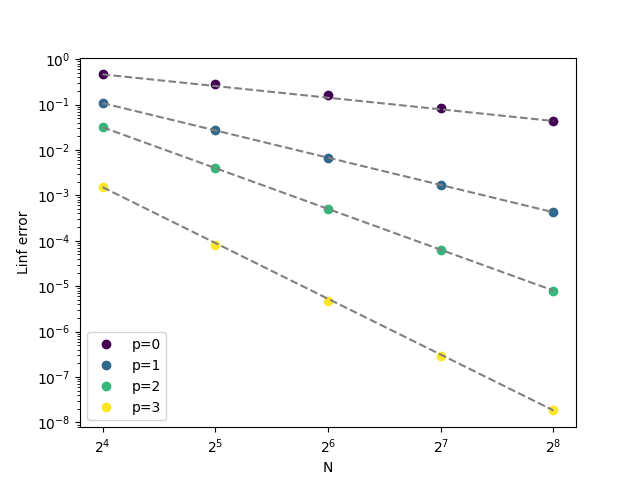
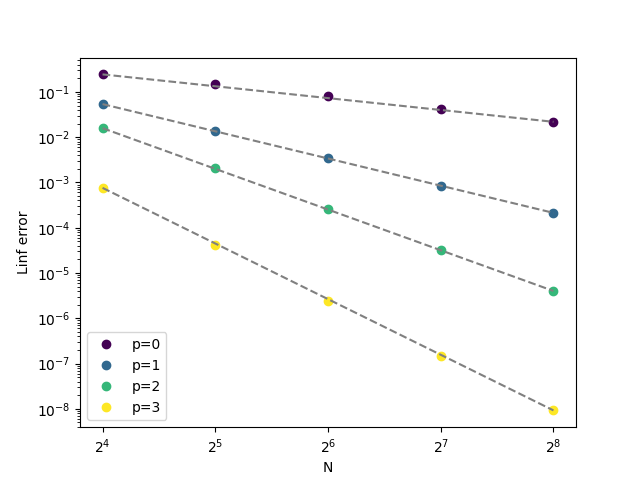
fix: SED divide by 0 in SED, add: SED to a priori limiting

diff --git a/superfv/slope_limiting/zhang_and_shu.py b/superfv/slope_limiting/zhang_and_shu.py
@@ -7,6 +7,8 @@ import numpy as np
 from superfv.slope_limiting import compute_dmp
 from superfv.tools.array_management import ArrayLike, crop_to_center, intersection_shape
 
+from .smooth_extrema_detection import compute_smooth_extrema_detector
+
 if TYPE_CHECKING:
     from superfv.finite_volume_solver import FiniteVolumeSolver
 
@@ -113,6 +115,7 @@ def zhang_shu_limiter(
     interpolation_scheme: Literal["transverse", "gauss-legendre"],
     p: int,
     tol: float = 1e-16,
+    SED: bool = False,
 ) -> Tuple[ArrayLike, ArrayLike]:
     """
     Caches the limited face values for the advection equation using a variable-wise
@@ -126,6 +129,7 @@ def zhang_shu_limiter(
             mode.
         p (int): Polynomial order. Must be >= 1.
         tol (float): Tolerance for dividing by zero.
+        SED (bool): Whether to use the SED method.
 
     Returns:
         Tuple[ArrayLike, ArrayLike]: Limited face values (left, right). Each has shape
@@ -207,6 +211,14 @@ def zhang_shu_limiter(
         ),
         1,
     )
+
+    # compute smooth extrema detector
+    if SED:
+        alpha = compute_smooth_extrema_detector(
+            xp, fv_solver.apply_bc(averages, 3)[__limiting_slc__], axes=fv_solver.axes
+        )
+        alpha = crop(alpha, add_axis=True)
+        theta = np.where(alpha == 1, 1, theta)
 
     # limit and escape
     if fv_solver.using_xdim:

diff --git a/superfv/finite_volume_solver.py b/superfv/finite_volume_solver.py
@@ -678,13 +678,15 @@ class FiniteVolumeSolver(ExplicitODESolver, ABC):
         # Assign limiting variables
         self.array_slicer.create_var_group("limiting_vars", tuple(self.limiting_vars))
 
+        # Set SED
+        self.SED = SED
+
         # If no MOOD, early return
         if not self.MOOD:
             return
 
-        # Set NAD and SED
+        # Set NAD
         self.NAD = NAD
-        self.SED = SED
 
         # Handle PAD
         self.PAD_tol = PAD_tol
@@ -1054,6 +1056,7 @@ class FiniteVolumeSolver(ExplicitODESolver, ABC):
                         Literal["transverse", "gauss-legendre"], interpolation_scheme
                     ),
                     p=cast(int, p),
+                    SED=self.SED,
                 )
             else:
                 raise ValueError(

diff --git a/superfv/initial_conditions.py b/superfv/initial_conditions.py
@@ -58,7 +58,9 @@ def sinus(
     if {"rho", "vx", "vy", "vz"} <= _slc.var_names:
         # advection case
         r = int("x" in dims) * x + int("y" in dims) * y + int("z" in dims) * z
-        out[_slc("rho")] = (bounds[1] - bounds[0]) * np.sin(2 * np.pi * r) + bounds[0]
+        out[_slc("rho")] = (
+            0.5 * (bounds[1] - bounds[0]) * np.sin(2 * np.pi * r) + 0.5 + bounds[0]
+        )
         out[_slc("vx")] = vx
         out[_slc("vy")] = vy
         out[_slc("vz")] = vz

diff --git a/superfv/slope_limiting/smooth_extrema_detection.py b/superfv/slope_limiting/smooth_extrema_detection.py
@@ -52,7 +52,9 @@ def compute_1d_smooth_extrema_detector(
     """
     du = central_difference(u, axis)
     dv = 0.5 * central_difference(du, axis)
-    dv_safe = xp.where(xp.abs(dv) < eps, xp.sign(dv) * eps, dv)
+    dv_safe = np.where(
+        np.logical_and(dv > -eps, dv < eps), np.where(dv < 0, -eps, eps), dv
+    )
 
     # left detector
     v_l = du[chop((0, -2), axis)] - du[chop((1, -1), axis)]

diff --git a/TODO.md b/TODO.md
@@ -1,8 +1,6 @@
-- [x] remove `v{dim}`, `m{dim}` references in FiniteVolumeSolver. vx, vy, vz probably need to be implemented as passive scalars
-- [x] a priori limiting by default should limit each variable independently (no min)
-- [ ] strange SED behavior in notebooks/1D_Advection.ipynb
+- [x] strange SED behavior in notebooks/1D_Advection.ipynb
+- [x] smooth convergence with Euler (P=1) like Miniramses namelist/
 - [ ] conservative or primitive options for a priori slope limiting. maybe limiting primitive variables will prevent the strange P profile in notebooks/1D_Advection.ipynb
-- [ ] smooth convergence with Euler (P=1) like Miniramses namelist/
 - [ ] make labels optional in plot functions
 - [ ] Riemann solvers should take only primitive variables
 - [ ] HLLC
